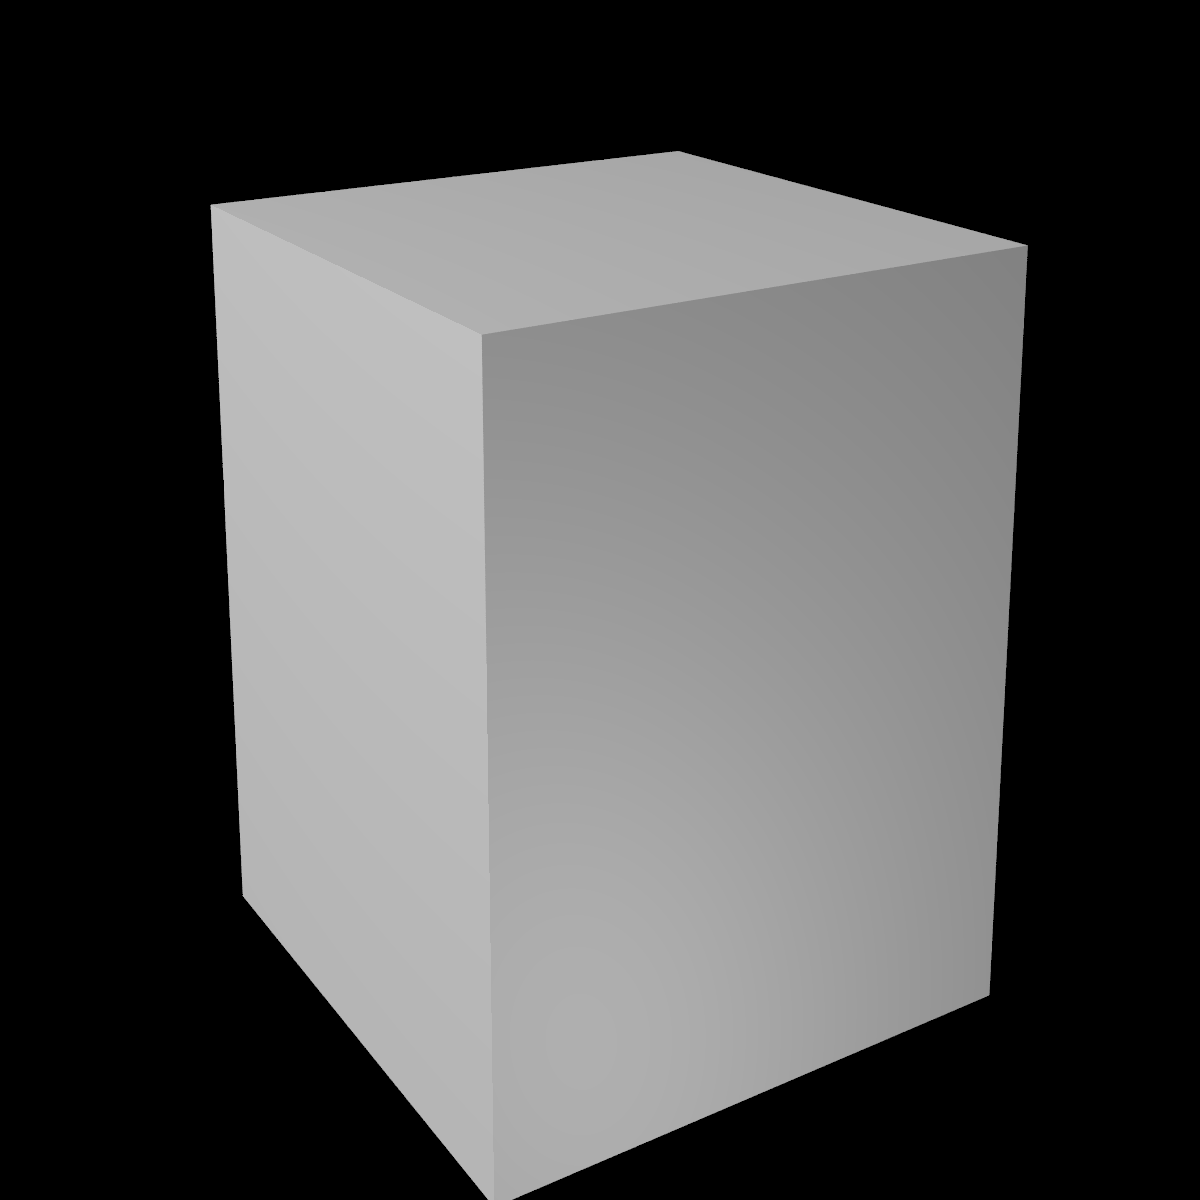
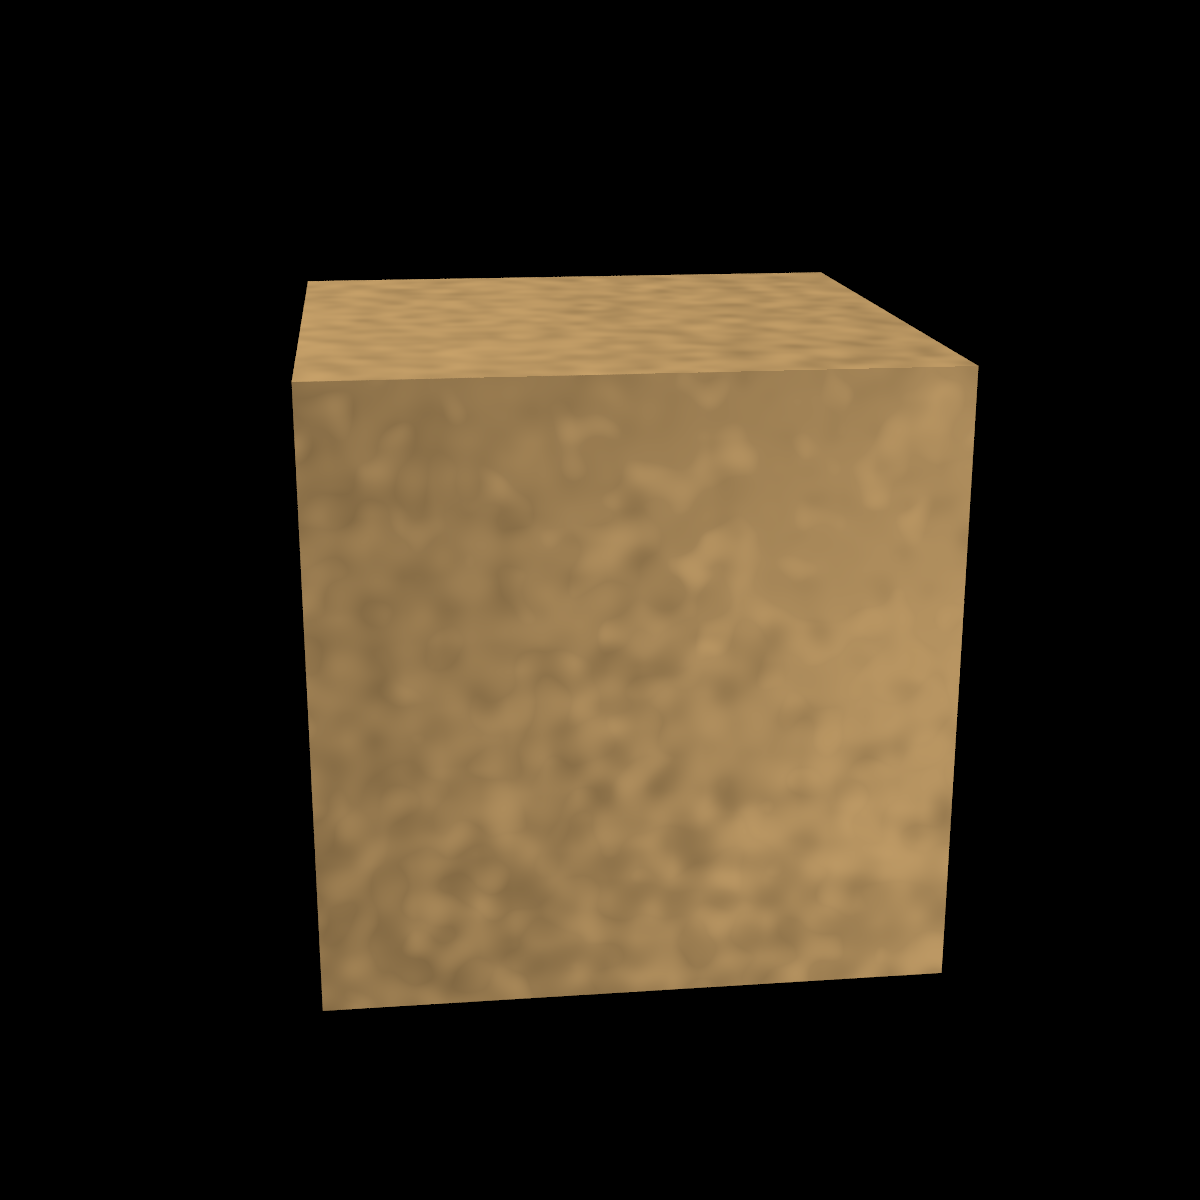
Enhance OBJ2POV with camera rotation feature and version update
- Updated version to 1.0.1 to reflect new features.
- Added `--rotate-camera` command-line option to allow users to rotate the camera around the look-at point.
- Improved camera positioning logic to accommodate the new rotation feature.
- Adjusted example cube POV file and image dimensions for better rendering.
- Enhanced documentation with usage examples for the new camera rotation option.

diff --git a/obj2pov.py b/obj2pov.py
@@ -6,12 +6,13 @@ This tool converts Wavefront OBJ files to POV-Ray format.
 Supports vertices, faces, normals, texture coordinates, and materials.
 """
 
-__version__ = "1.0.0"
+__version__ = "1.0.1"
 
 import argparse
 import os
 import sys
 import struct
+import math
 from typing import List, Tuple, Optional, Dict, Any
 import re
 from tqdm import tqdm
@@ -239,11 +240,12 @@ class STLParser:
 class POVGenerator:
     """Generator for POV-Ray files."""
     
-    def __init__(self, parser, image_width=800, image_height=600, flip_x=False):
+    def __init__(self, parser, image_width=800, image_height=600, flip_x=False, camera_rotation=0.0):
         self.parser = parser
         self.image_width = image_width
         self.image_height = image_height
         self.flip_x = flip_x
+        self.camera_rotation = camera_rotation
         
     def generate_pov(self, output_filename: str, include_materials: bool = True, show_progress: bool = True) -> None:
         """Generate POV-Ray file from parsed OBJ data."""
@@ -520,7 +522,7 @@ class POVGenerator:
         min_z = min(v[2] for v in vertices_for_bounds)
         max_z = max(v[2] for v in vertices_for_bounds)
         
-        # Calculate object center
+        # Calculate object center (look-at point)
         center_x = (min_x + max_x) / 2
         center_y = (min_y + max_y) / 2
         center_z = (min_z + max_z) / 2
@@ -541,11 +543,38 @@ class POVGenerator:
         # Add some padding (20% extra)
         distance = (max_dimension / 2) / (fov_half_angle_rad) * 1.2
         
-        # Position camera along the diagonal for best view
-        # Use a nice 3/4 view angle
-        camera_x = center_x + distance * 0.5
-        camera_y = center_y + distance * 0.3
-        camera_z = center_z + distance * 0.8
+        # Base camera position (3/4 view angle)
+        base_camera_x = center_x + distance * 0.5
+        base_camera_y = center_y + distance * 0.3
+        base_camera_z = center_z + distance * 0.8
+        
+        # Apply camera rotation around the look-at point
+        if self.camera_rotation != 0.0:
+            # Convert rotation to radians
+            rotation_rad = self.camera_rotation * 3.14159265359 / 180
+            
+            # Calculate offset from center
+            offset_x = base_camera_x - center_x
+            offset_y = base_camera_y - center_y
+            offset_z = base_camera_z - center_z
+            
+            # Rotate around Y-axis (vertical axis) for horizontal rotation
+            # This rotates the camera around the object horizontally
+            cos_rot = math.cos(rotation_rad)
+            sin_rot = math.sin(rotation_rad)
+            
+            # Apply rotation matrix for Y-axis rotation
+            new_offset_x = offset_x * cos_rot + offset_z * sin_rot
+            new_offset_z = -offset_x * sin_rot + offset_z * cos_rot
+            
+            # Calculate new camera position
+            camera_x = center_x + new_offset_x
+            camera_y = base_camera_y  # Keep Y position the same for horizontal rotation
+            camera_z = center_z + new_offset_z
+        else:
+            camera_x = base_camera_x
+            camera_y = base_camera_y
+            camera_z = base_camera_z
         
         # Calculate light distance (1.5x camera distance for good lighting)
         light_distance = distance * 1.5
@@ -593,17 +622,20 @@ Examples:
   python obj2pov.py model.obj -W 1024 -H 768
   python obj2pov.py model.stl -W 1600 -H 1200
   python obj2pov.py model.stl --flip-x
+  python obj2pov.py model.obj --rotate-camera 45
+  python obj2pov.py model.stl --rotate-camera -90
         """
     )
     
     parser.add_argument('input_file', help='Input OBJ or STL file')
     parser.add_argument('-o', '--output', help='Output POV file (default: input_file.pov)')
-    parser.add_argument('--no-materials', action='store_true', help='Skip material definitions')
+    parser.add_argument('-no-materials', action='store_true', help='Skip material definitions')
     parser.add_argument('-v', '--verbose', action='store_true', help='Verbose output')
-    parser.add_argument('-W', '--width', type=int, default=800, help='Image width for POV-Ray rendering (default: 800)')
-    parser.add_argument('-H', '--height', type=int, default=600, help='Image height for POV-Ray rendering (default: 600)')
-    parser.add_argument('--flip-x', action='store_true', help='Flip X coordinates')
-    parser.add_argument('--version', action='version', version=f'OBJ2POV {__version__}')
+    parser.add_argument('-w', '--width', type=int, default=800, help='Image width for POV-Ray rendering (default: 800)')
+    parser.add_argument('-h', '--height', type=int, default=600, help='Image height for POV-Ray rendering (default: 600)')
+    parser.add_argument('-flip-x', action='store_true', help='Flip X coordinates')
+    parser.add_argument('-rotate-camera', type=float, default=0.0, help='Rotate camera around look-at point in degrees (positive/negative)')
+    parser.add_argument('-version', action='version', version=f'OBJ2POV {__version__}')
     
     args = parser.parse_args()
     
@@ -647,7 +679,7 @@ Examples:
                 print(f"Found {len(parser.texture_coords)} texture coordinates")
         
         # Generate POV-Ray file
-        pov_generator = POVGenerator(parser, args.width, args.height, args.flip_x)
+        pov_generator = POVGenerator(parser, args.width, args.height, args.flip_x, args.rotate_camera)
         pov_generator.generate_pov(output_file, include_materials=not args.no_materials, show_progress=args.verbose)
         
         print(f"Successfully converted '{args.input_file}' to '{output_file}'")
